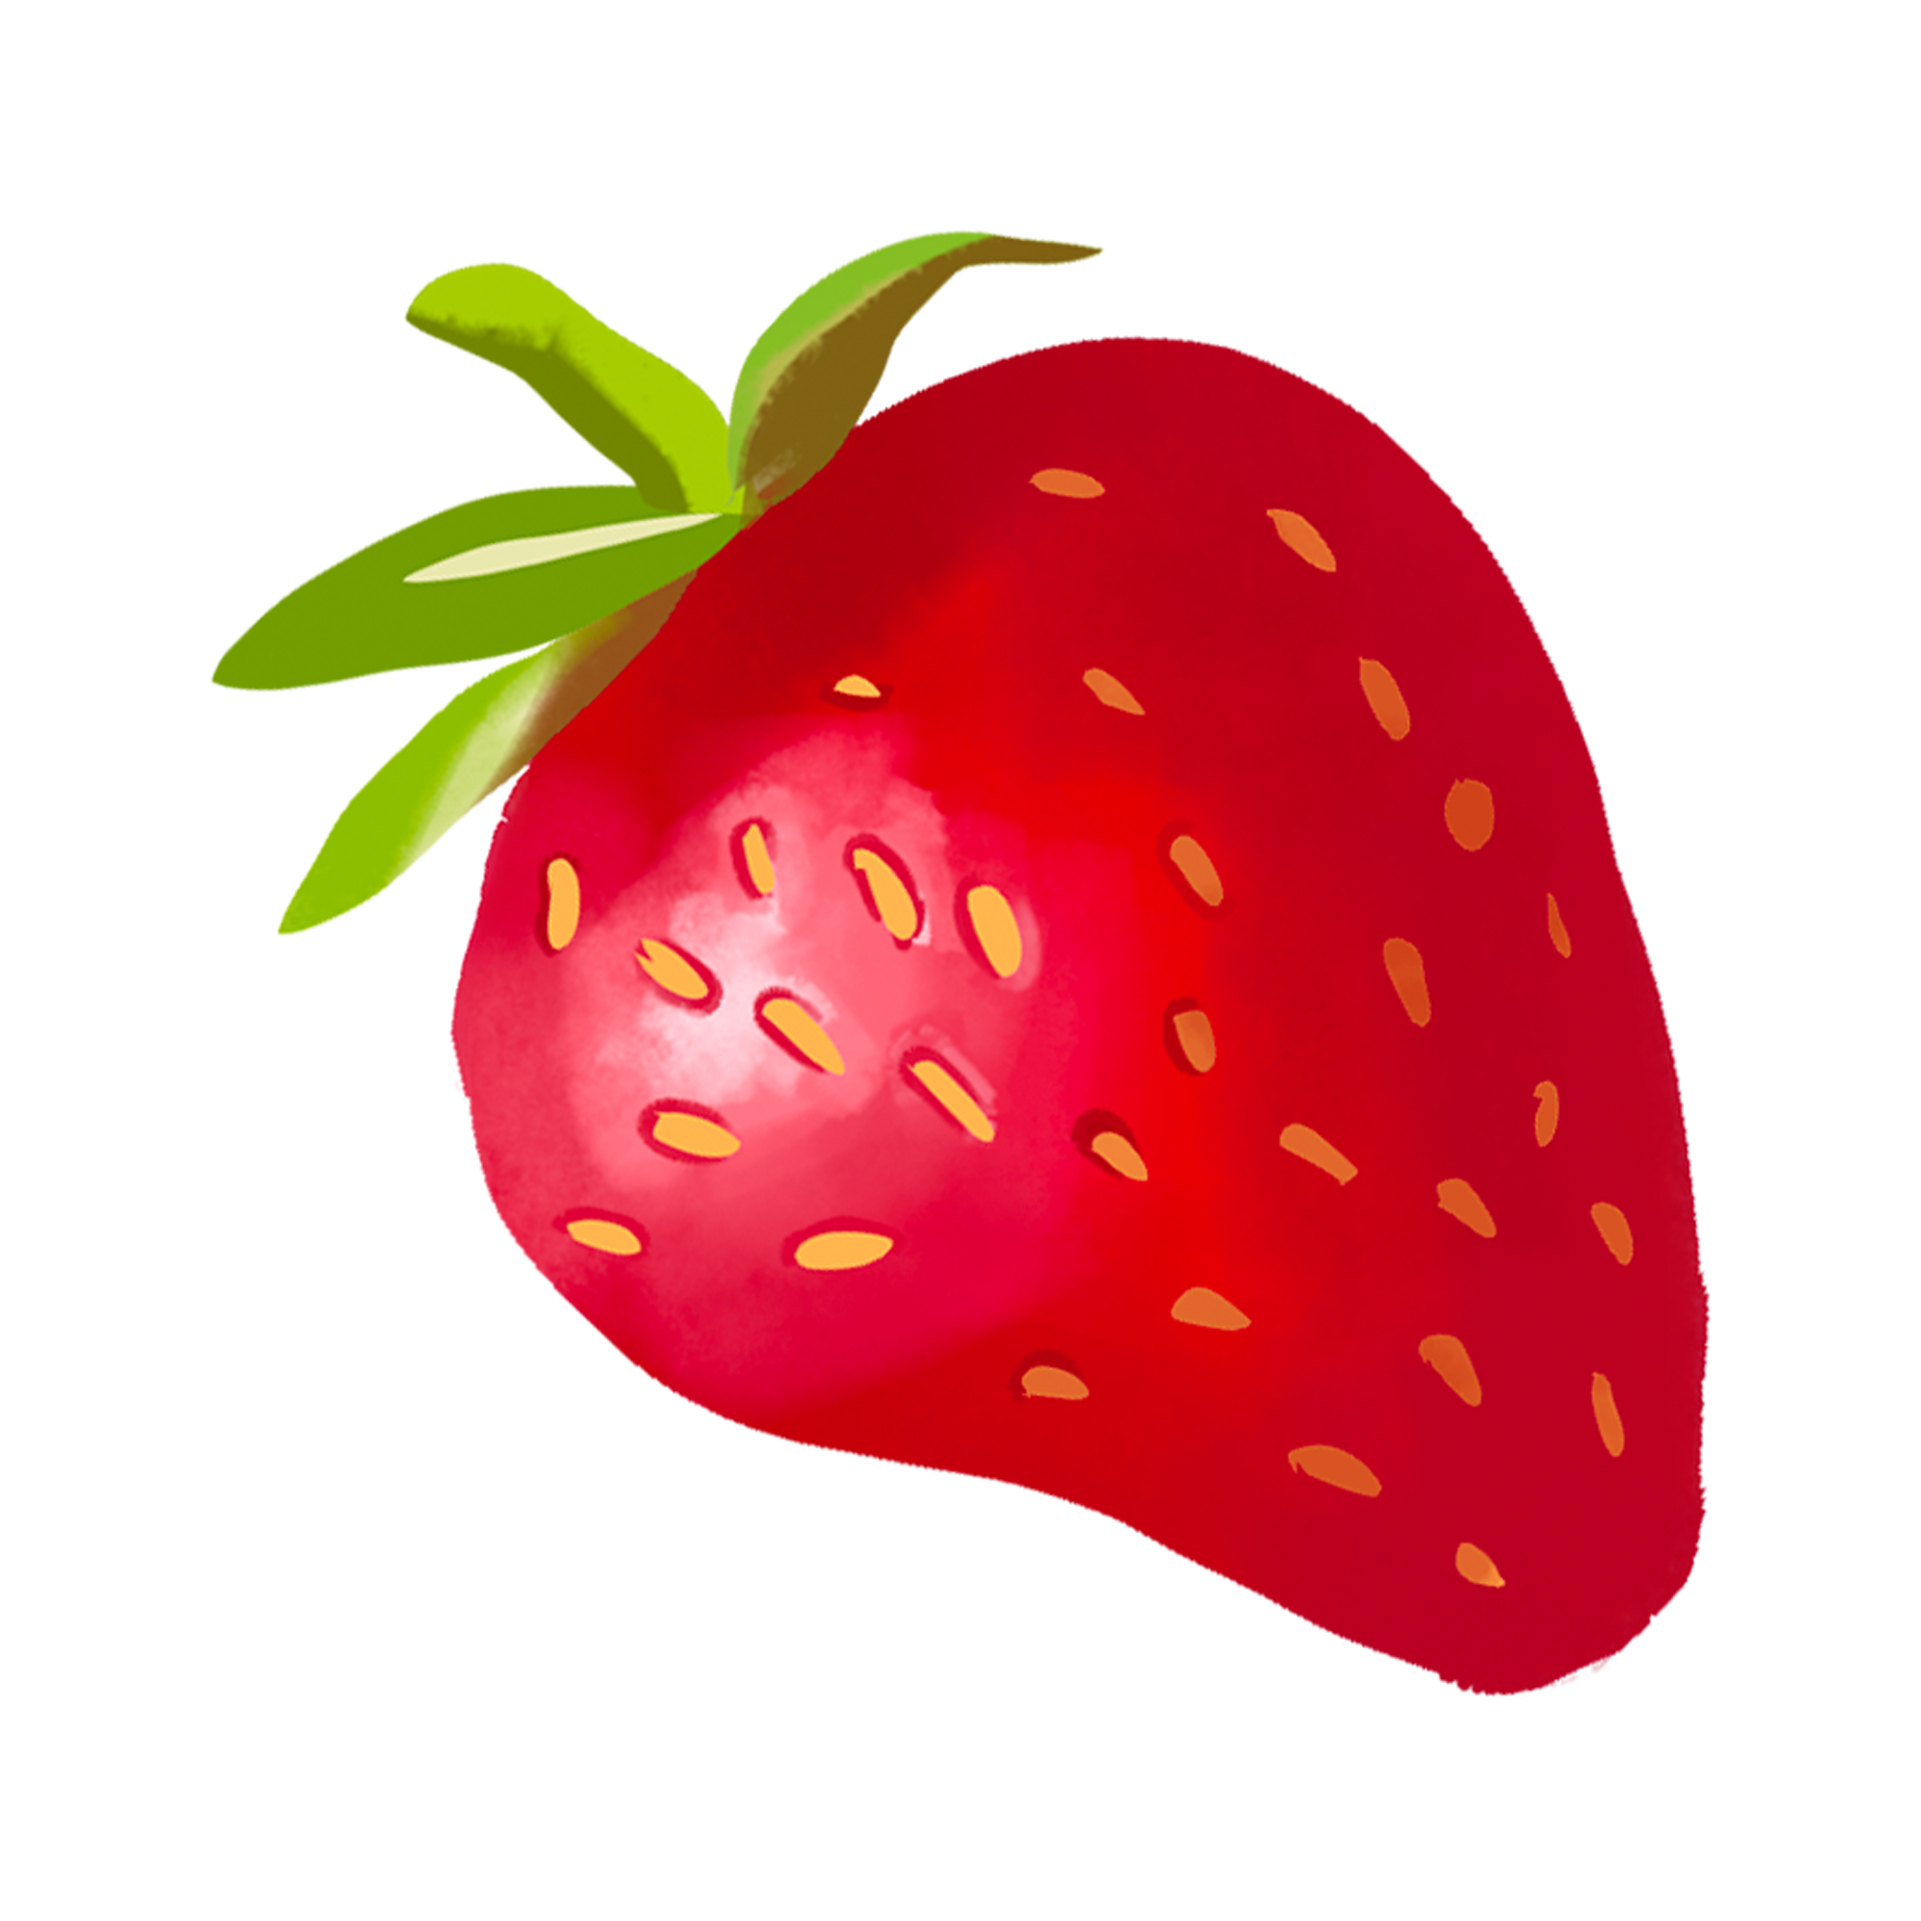
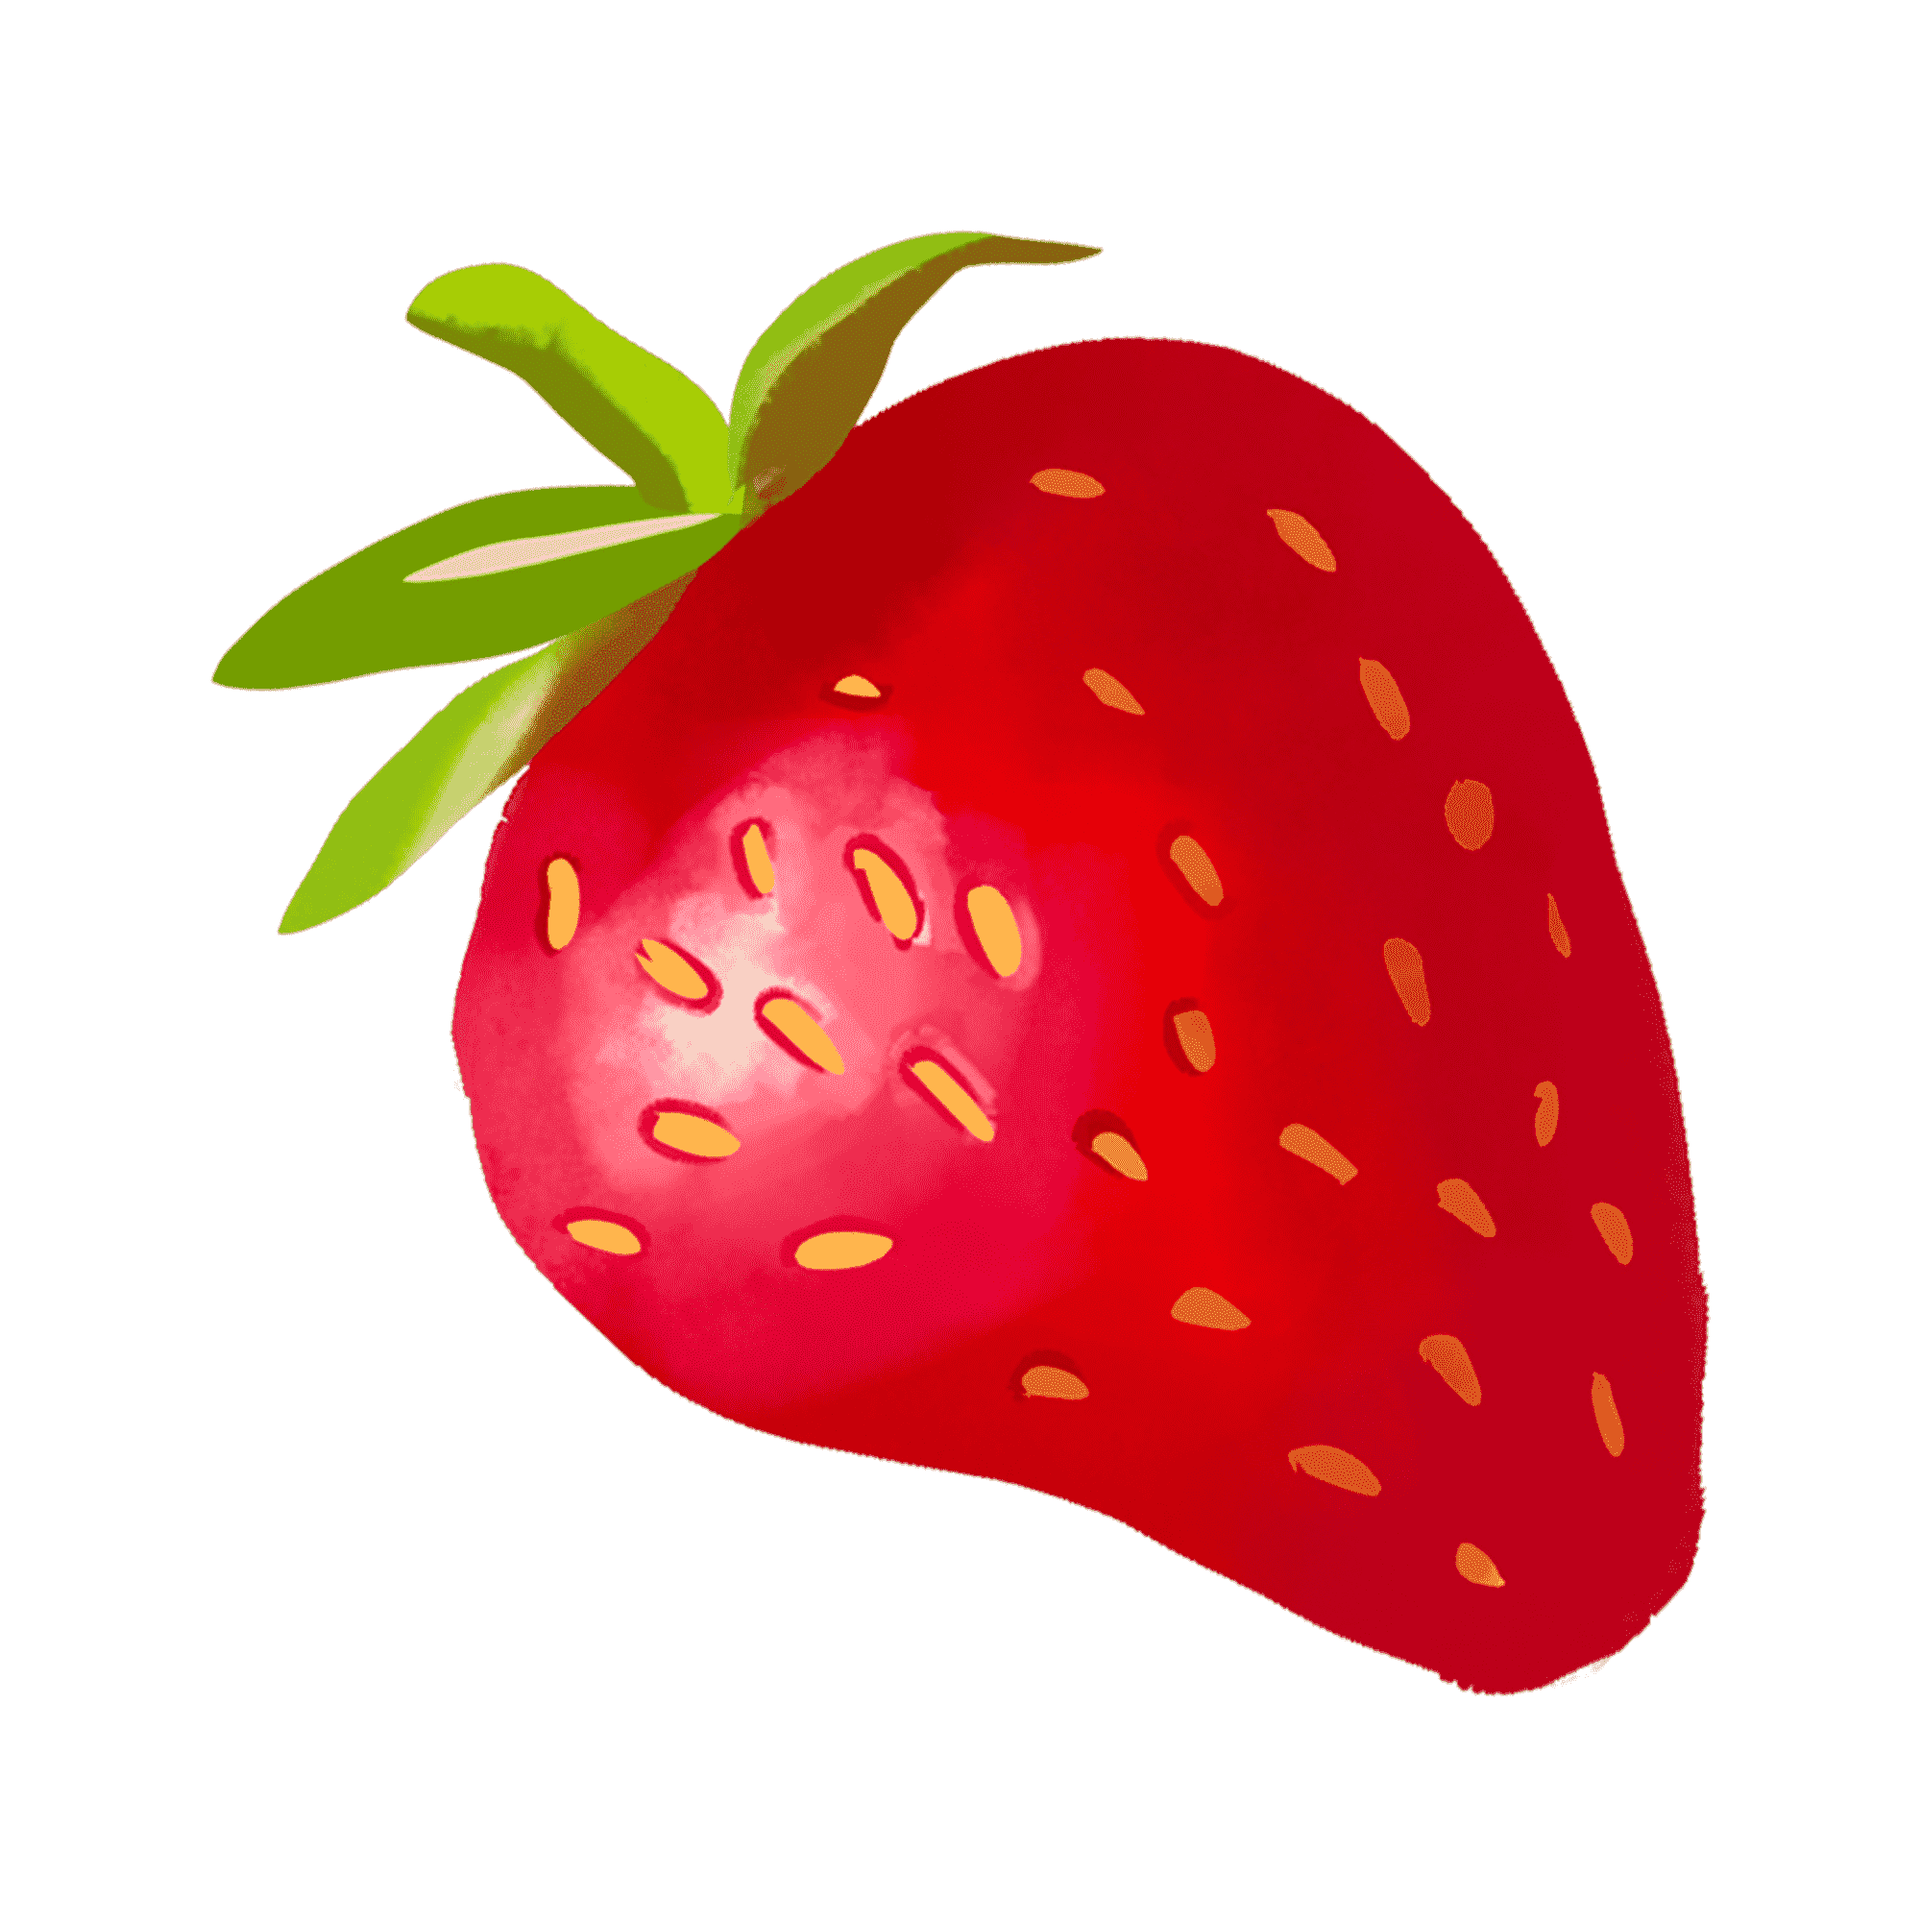
Resize image, create fraise mini, delete unused bg

diff --git a/script.js b/script.js
@@ -112,7 +112,7 @@ document.getElementById("autoclicker").addEventListener("click", () => {
 
 document.getElementById("bonus").disabled = true;
 
-let timerBonus = setInterval(activateBonus,60000);
+let timerBonus = setInterval(activateBonus,300000);
 
 function activateBonus() {
 
@@ -123,21 +123,35 @@ function activateBonus() {
 
 
 document.getElementById("bonus").addEventListener("click", () => {
+
     document.getElementById("bonus").disabled = true;
+
     document.getElementById("bonus").style.backgroundColor = "grey";
+
     fraise = fraise * 3;
+
     let startBonus = setInterval(counterBonus, 1000);
+
     let timer = 30;
+
     function counterBonus() {
        
         timer -= 1;
+
         if (timer > 9) {
+
             document.getElementById("timerBonus").innerHTML = "00:" + timer;
+
         } else if (timer > 0) {
+
             document.getElementById("timerBonus").innerHTML = "00:0" + timer;
+
         }  else {
+
             document.getElementById("timerBonus").innerHTML = "00:00";
+
             fraise = fraise / 3;
+
             clearInterval(startBonus);
         }
           

diff --git a/index.html b/index.html
@@ -7,7 +7,7 @@
     <title>fraise clicker</title>
 
             <!-- LOGO A COTE DU TITRE DE LA PAGE -->
-            <link rel="shortcut icon" type="image/png" href="assets/images/fraise.png">
+            <link rel="shortcut icon" type="image/png" href="assets/images/minifraise.png">
     <link rel="stylesheet" href="style.css">
     
 </head>
